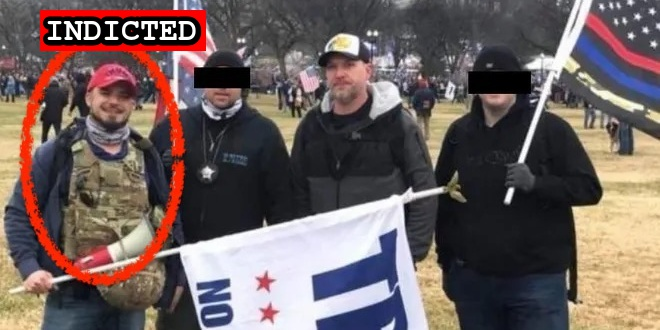
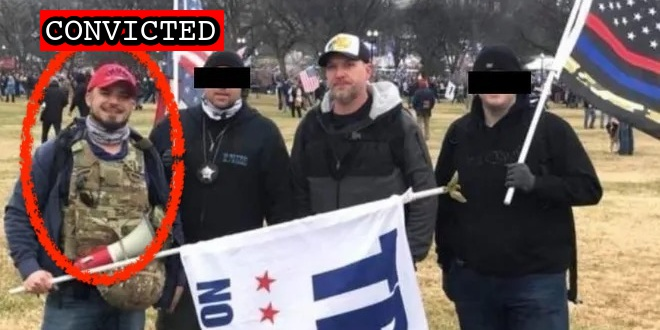
Latest import

Changed region(s): [[0.0606, 0.0303, 0.3636, 0.1818]]

diff --git a/docs/_suspects/lonnie-coffman.md b/docs/_suspects/lonnie-coffman.md
@@ -34,24 +34,23 @@ published: true
 caseNumber: 1:21-cr-4
 videos:
 charges:
-  - code: 26 USC § 5861(d)
-    title: Possession of an Unregistered Firearm
-    url: https://www.law.cornell.edu/uscode/text/26/5861
-    felony: true
-  - code: 22 DC Code § 4504(a)
-    title: Carrying a Pistol Without a License
-    url: https://code.dccouncil.us/us/dc/council/code/sections/22-4504.html
-    felony: true
-  - code: 26 USC § 5861(d)
-    title: Possession of an Unregistered Firearm
-    url: https://www.law.cornell.edu/uscode/text/26/5861
-    felony: true
+- code: 26 USC § 5861(d)
+  title: Possession of an Unregistered Firearm
+  url: https://www.law.cornell.edu/uscode/text/26/5861
+  felony: true
+- code: 22 DC Code § 4504(a)
+  title: Carrying a Pistol Without a License
+  url: https://code.dccouncil.us/us/dc/council/code/sections/22-4504.html
+  felony: true
+- code: 26 USC § 5861(d)
+  title: Possession of an Unregistered Firearm
+  url: https://www.law.cornell.edu/uscode/text/26/5861
+  felony: true
 sentence:
 ---
-
 - [News Report](https://www.montgomeryadvertiser.com/story/news/crime/2021/01/27/feds-seize-items-lonnie-coffman-falkville-home-capitol-riot-case/4281963001/)
 - [DOJ Press Release](https://www.justice.gov/opa/pr/thirteen-charged-federal-court-following-riot-united-states-capitol)
-- [Statement of Facts](https://www.justice.gov/opa/press-release/file/1351661/download)
+- [Statement of Facts](https://www.justice.gov/usao-dc/case-multi-defendant/file/1448141/download)
 - [Complaint](https://www.justice.gov/opa/press-release/file/1351666/download)
 - [Indictment](https://www.justice.gov/opa/page/file/1352926/download)
 - [FBI Search](https://www.wsfa.com/2021/01/26/federal-agents-home-falkville-man-arrested-connection-us-capitol-violence/)
@@ -60,3 +59,4 @@ sentence:
 - [Detention Exhibit 2](https://extremism.gwu.edu/sites/g/files/zaxdzs2191/f/Lonnie%20Coffman%20Memorandum%20in%20Support%20of%20Pretrial%20Detention%20Exhibit%202.pdf)
 - [Detention Exhibit 3](https://extremism.gwu.edu/sites/g/files/zaxdzs2191/f/Lonnie%20Coffman%20Memorandum%20in%20Support%20of%20Pretrial%20Detention%20Exhibit%203.pdf)
 - [Detention Exhibit 4](https://extremism.gwu.edu/sites/g/files/zaxdzs2191/f/Lonnie%20Coffman%20Memorandum%20in%20Support%20of%20Pretrial%20Detention%20Exhibit%204.pdf)
+- [Plea Agreement](https://www.justice.gov/usao-dc/case-multi-defendant/file/1448131/download)

diff --git a/docs/_suspects/robert-schornak.md b/docs/_suspects/robert-schornak.md
@@ -4,16 +4,16 @@ lastName: Schornak
 hashtag: RobertSchornak
 aka:
 residence: Michigan
-status: Indicted
+status: Convicted
 date: 2021-03-16
 charged: 2021-03-16
 indicted: 2021-04-02
-convicted: 
-sentenced: 
-dismissed: 
+convicted: 2021-11-12
+sentenced:
+dismissed:
 deceased:
-plea_hearing:
-sentencing:
+plea_hearing: 2021-11-12
+sentencing: 2022-02-18
 age: 39
 occupation:
 affiliations:
@@ -25,7 +25,7 @@ courtroom:
 courthouse:
 raid:
 perpwalk:
-quote: 'Yes I was in it, front line tear gased, pepper sprayed n batoned [sic]'
+quote: "Yes I was in it, front line tear gased, pepper sprayed n batoned [sic]"
 title: Robert Schornak charged on March 16, 2021
 description: Click for latest case details. Suspects innocent until proven guilty.
 author: seditiontrack
@@ -34,9 +34,15 @@ published: true
 caseNumber: 1:21-cr-278
 videos:
 charges:
+  - code: 18 USC § 1752(a)(1)
+    title: Entering a restricted building or grounds
+    url: https://www.law.cornell.edu/uscode/text/18/1752
+    felony: false
 sentence:
 ---
+
 - [News Report](https://www.detroitnews.com/story/news/local/detroit-city/2021/03/18/us-capitol-riot-leads-charges-against-two-more-michigan-men/4746118001/)
 - [Complaint](https://www.justice.gov/usao-dc/case-multi-defendant/file/1379311/download)
-- [Statement of Facts](https://www.justice.gov/usao-dc/case-multi-defendant/file/1379306/download)
+- [Statement of Facts](https://www.justice.gov/usao-dc/case-multi-defendant/file/1448091/download)
 - [Indictment](https://www.justice.gov/usao-dc/case-multi-defendant/file/1384356/download)
+- [Plea Agreement](https://www.justice.gov/usao-dc/case-multi-defendant/file/1448086/download)

diff --git a/docs/_suspects/brian-stenz.md b/docs/_suspects/brian-stenz.md
@@ -4,16 +4,16 @@ lastName: Stenz
 hashtag: BrianStenz
 aka:
 residence: Pennsylvania
-status: Charged
+status: Convicted
 date: 2021-04-28
 charged: 2021-04-28
 indicted:
-convicted:
+convicted: 2021-11-12
 sentenced:
 dismissed:
 deceased:
-plea_hearing:
-sentencing:
+plea_hearing: 2021-11-12
+sentencing: 2022-02-18
 age: 51
 occupation:
 affiliations:
@@ -34,9 +34,15 @@ published: true
 caseNumber:
 videos:
 charges:
+  - code: 18 USC § 5104(e)(2)(G)
+    title: Parading, demonstrating or picketing in a Capitol building
+    url: https://www.law.cornell.edu/uscode/text/40/5104
+    felony: false
 sentence:
 ---
+
 - [News Report](https://www.msn.com/en-us/news/crime/montgomery-county-man-charged-in-capitol-insurrection/ar-BB1geNiC)
 - [Complaint](https://www.justice.gov/opa/case-multi-defendant/file/1391156/download)
-- [Statement of Facts](https://www.justice.gov/opa/case-multi-defendant/file/1391161/download)
+- [Statement of Facts](https://www.justice.gov/usao-dc/case-multi-defendant/file/1448106/download)
 - [Information](https://www.justice.gov/usao-dc/case-multi-defendant/file/1414606/download)
+- [Plea Agreement](https://www.justice.gov/usao-dc/case-multi-defendant/file/1448101/download)

diff --git a/docs/_suspects/oliver-sarko.md b/docs/_suspects/oliver-sarko.md
@@ -42,5 +42,6 @@ sentence:
 ---
 - [News Report](https://www.nbc4i.com/news/local-news/columbus/man-with-central-ohio-ties-accused-of-entering-capitol-on-jan-6/)
 - [Complaint](https://extremism.gwu.edu/sites/g/files/zaxdzs2191/f/Oliver%20Louis%20Sarko%20Criminal%20Complaint.pdf)
-- [Statement of Facts](https://www.justice.gov/usao-dc/case-multi-defendant/file/1393736/download)
+- [Statement of Facts](https://www.justice.gov/usao-dc/case-multi-defendant/file/1448071/download)
 - [Information](https://extremism.gwu.edu/sites/g/files/zaxdzs2191/f/Oliver%20Louis%20Sarko%20Information.pdf)
+- [Plea Agreement](https://www.justice.gov/usao-dc/case-multi-defendant/file/1448066/download)
